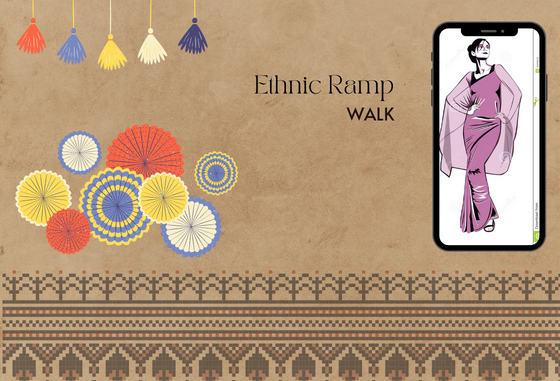
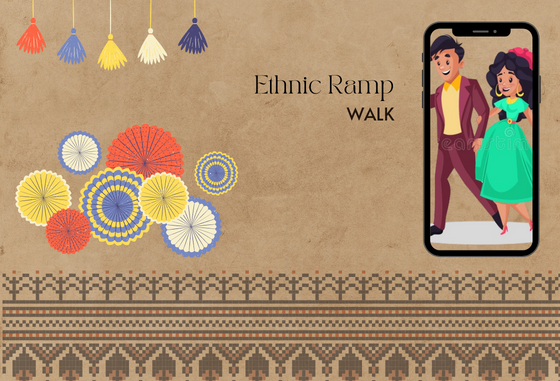
changed ramp img and some cult events details

Changed region(s): [[0.7286, 0.0577, 1.0, 0.6929]]

diff --git a/cult/Ethnic Ramp Show/index.html b/cult/Ethnic Ramp Show/index.html
@@ -43,7 +43,7 @@
                         <img src="26.png">
                     </div>
                     <div class="main-col-2"> 
-                        <h1 class="sub-title">Circuit Design</h1>
+                        <h1 class="sub-title">ETHNIC RAMP SHOW</h1>
                         <h>The process of circuit design can cover systems ranging from complex electronic systems down to the individual transistors within an integrated circuit.</h3><br>
                         <br><h3>Registration fees: </h3><br>
                         <h3>Team Size: Group of two members</h3><br>

diff --git a/cult/StandUp Comedy/index.html b/cult/StandUp Comedy/index.html
@@ -43,7 +43,7 @@
                         <img src="23.png">
                     </div>
                     <div class="main-col-2"> 
-                        <h1 class="sub-title">Circuit Design</h1>
+                        <h1 class="sub-title">STAND UP COMEDY</h1>
                         <h>The process of circuit design can cover systems ranging from complex electronic systems down to the individual transistors within an integrated circuit.</h3><br>
                         <br><h3>Registration fees: </h3><br>
                         <h3>Team Size: Group of two members</h3><br>

diff --git a/cult/Mimicry/index.html b/cult/Mimicry/index.html
@@ -43,7 +43,7 @@
                         <img src="24.png">
                     </div>
                     <div class="main-col-2"> 
-                        <h1 class="sub-title">Circuit Design</h1>
+                        <h1 class="sub-title">MIMICRY</h1>
                         <h>The process of circuit design can cover systems ranging from complex electronic systems down to the individual transistors within an integrated circuit.</h3><br>
                         <br><h3>Registration fees: </h3><br>
                         <h3>Team Size: Group of two members</h3><br>

diff --git a/cult/Dance/index.html b/cult/Dance/index.html
@@ -43,7 +43,7 @@
                         <img src="18.png">
                     </div>
                     <div class="main-col-2"> 
-                        <h1 class="sub-title">Circuit Design</h1>
+                        <h1 class="sub-title">DANCE</h1>
                         <h>The process of circuit design can cover systems ranging from complex electronic systems down to the individual transistors within an integrated circuit.</h3><br>
                         <br><h3>Registration fees: </h3><br>
                         <h3>Team Size: Group of two members</h3><br>

diff --git a/cult/Song/index.html b/cult/Song/index.html
@@ -43,7 +43,7 @@
                         <img src="19.png">
                     </div>
                     <div class="main-col-2"> 
-                        <h1 class="sub-title">Circuit Design</h1>
+                        <h1 class="sub-title">SONG</h1>
                         <h>The process of circuit design can cover systems ranging from complex electronic systems down to the individual transistors within an integrated circuit.</h3><br>
                         <br><h3>Registration fees: </h3><br>
                         <h3>Team Size: Group of two members</h3><br>
